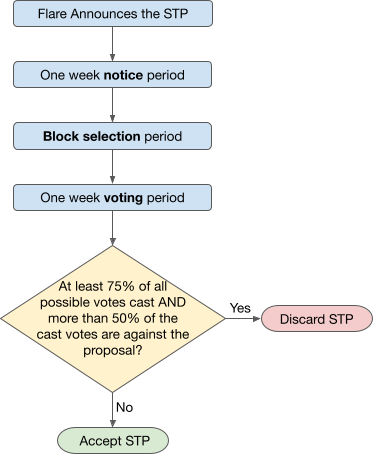
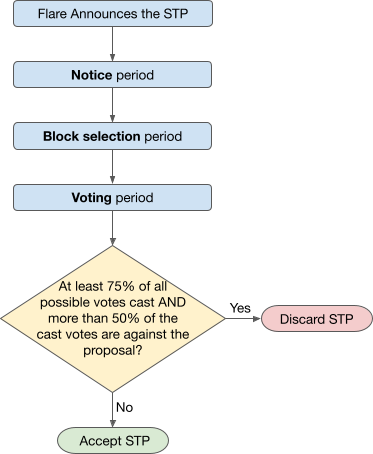
Update governance notice period length
We won't be able to provide a full week notice period for STP.01.

Changed region(s): [[0.118, 0.4009, 0.5013, 0.4626], [0.0885, 0.1542, 0.5013, 0.185]]

diff --git a/docs/tech/governance.md b/docs/tech/governance.md
@@ -83,7 +83,7 @@ The next section details when this happens.
 
 * **Announcement**: The Flare Foundation publishes the STP online and announces it through social media channels (linked on the footer of this page) and [the Flare website](https://flare.network).
 
-* **Notice period**: Once the proposal is published, the Flare Foundation allows a one-week notice period before voting can start.
+* **Notice period**: Once the proposal is published, the Flare Foundation allows a notice period before voting can start, typically lasting one week.
     During this time the proposal can be discussed, clarified, commented on, and even cancelled if serious issues are found with it.
 
     For security reasons only, the Foundation may reduce the timeframe of this period.
